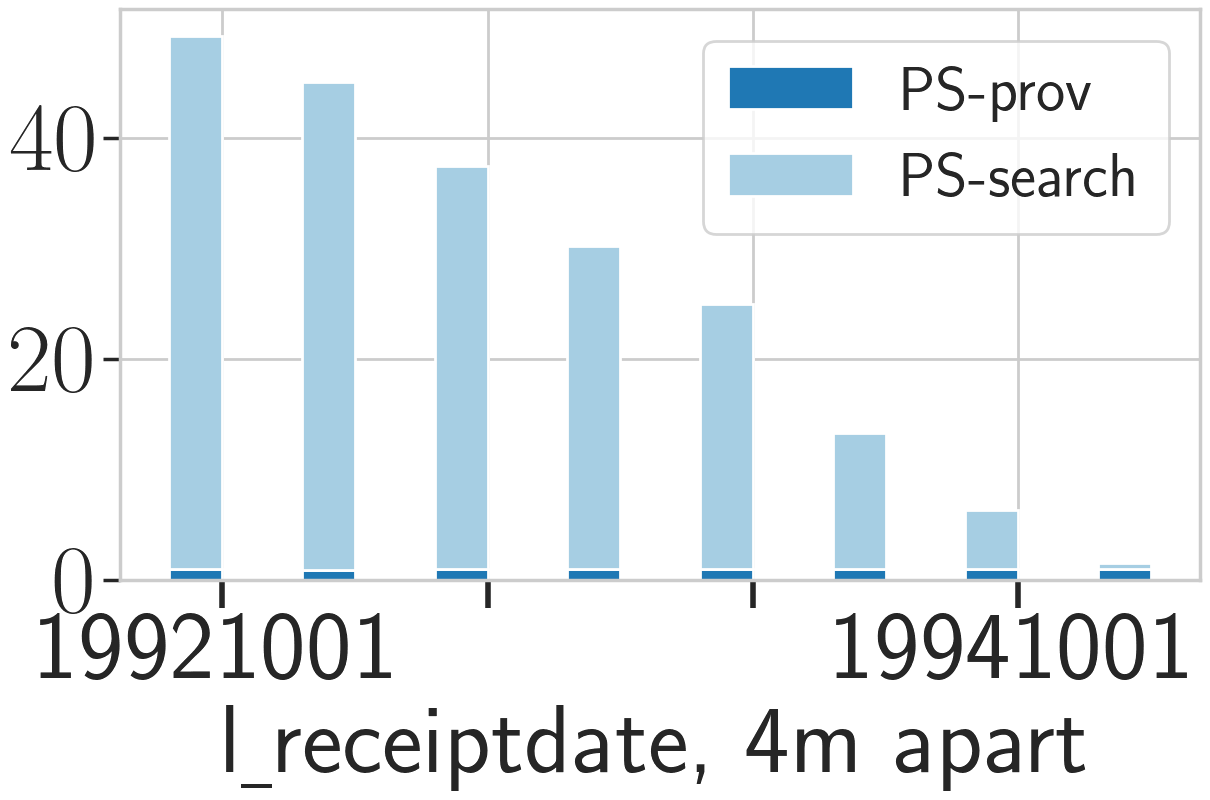
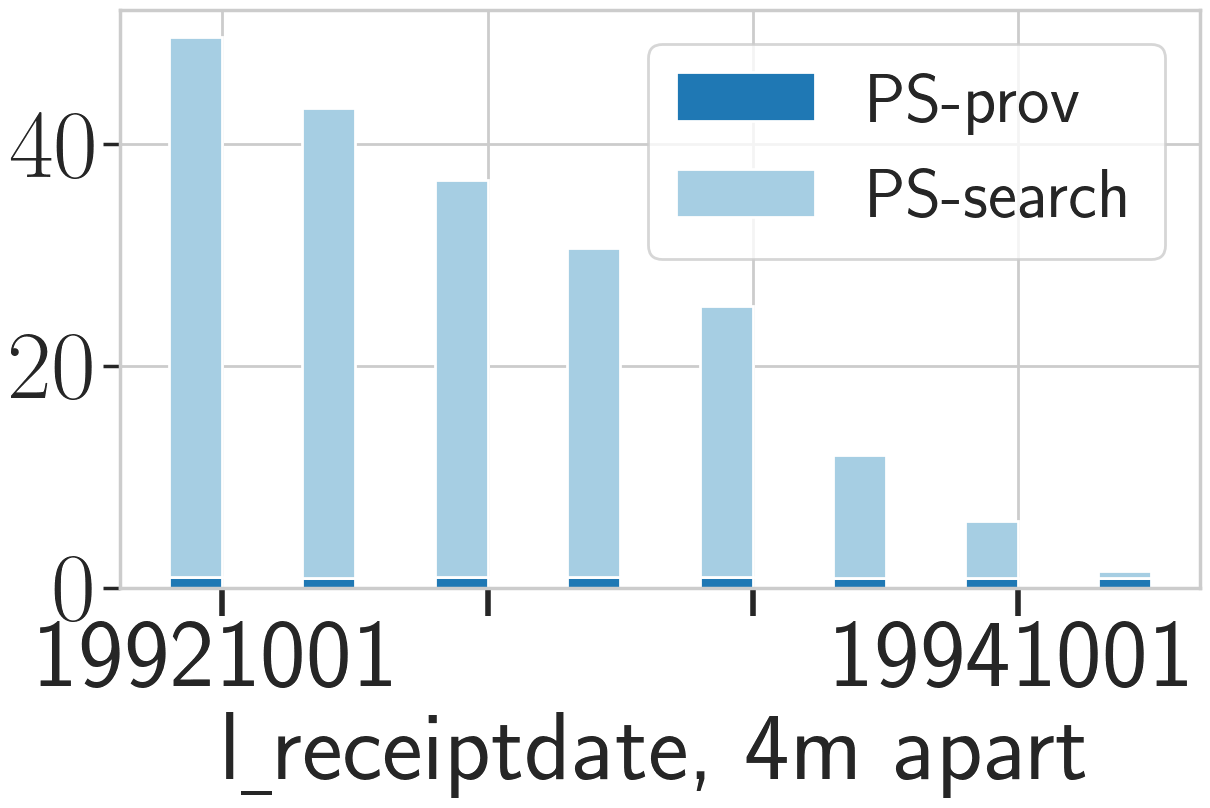
100M query selectivity q12 contract

diff --git a/Experiment/TPCH/100M/query_selectivity/q12_contract/fig.py b/Experiment/TPCH/100M/query_selectivity/q12_contract/fig.py
@@ -84,11 +84,10 @@ def run(query, size, constraint):
     plt.xticks(np.arange(0, 8, 2) + bar_width/2, x_list, rotation=0, fontsize=70, weight='bold')
     plt.yticks(fontsize=70, weight='bold', fontname="Times New Roman")
 
-    plt.ylim(0, 150)
     plt.xlabel(r'l\underline{ }receiptdate, 4m apart')
     # plt.ylabel('Running time (s)')
     # plt.legend(loc='upper right', bbox_to_anchor=(1.03, 1.05))
-    plt.legend(loc='best', fontsize=45)
+    plt.legend(loc='best', fontsize=50)
     plt.tight_layout()
     fig_path = "query_selectivity_q" + str(query) + "_" + size + "_" + constraint + ".png"
 
